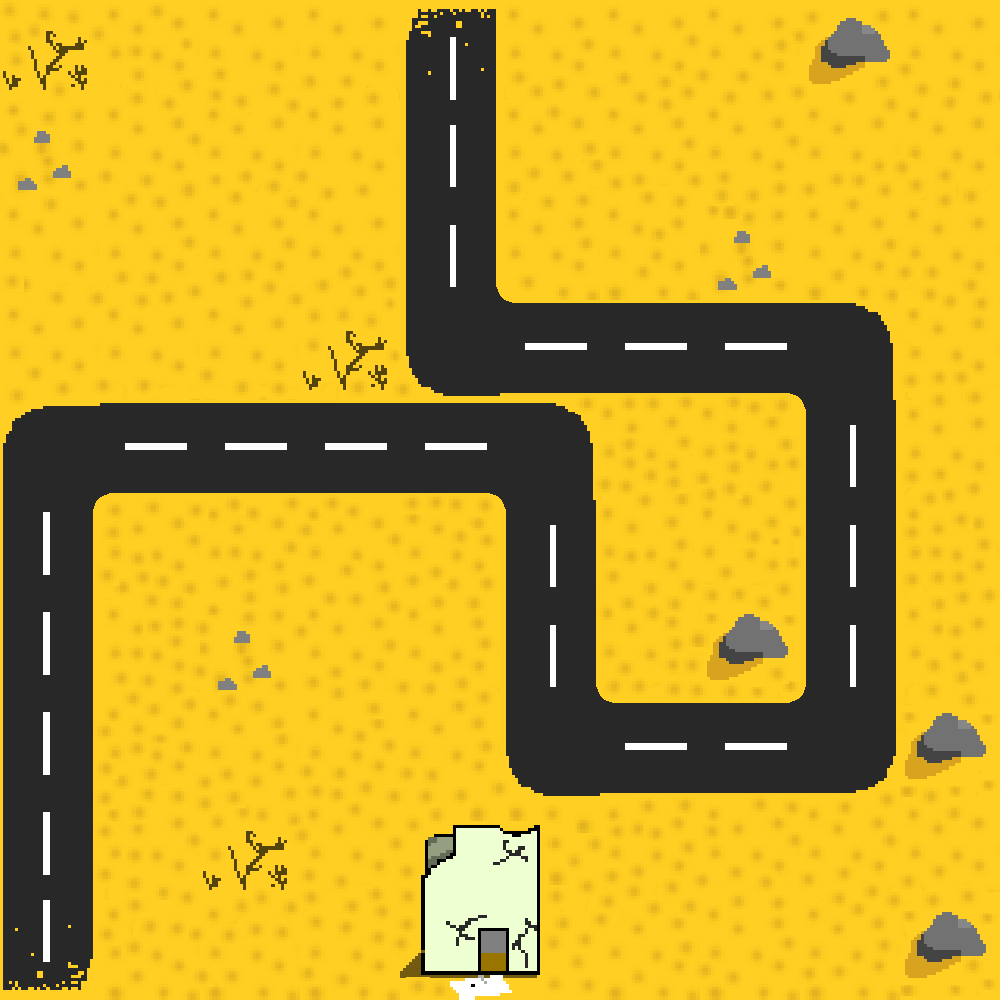
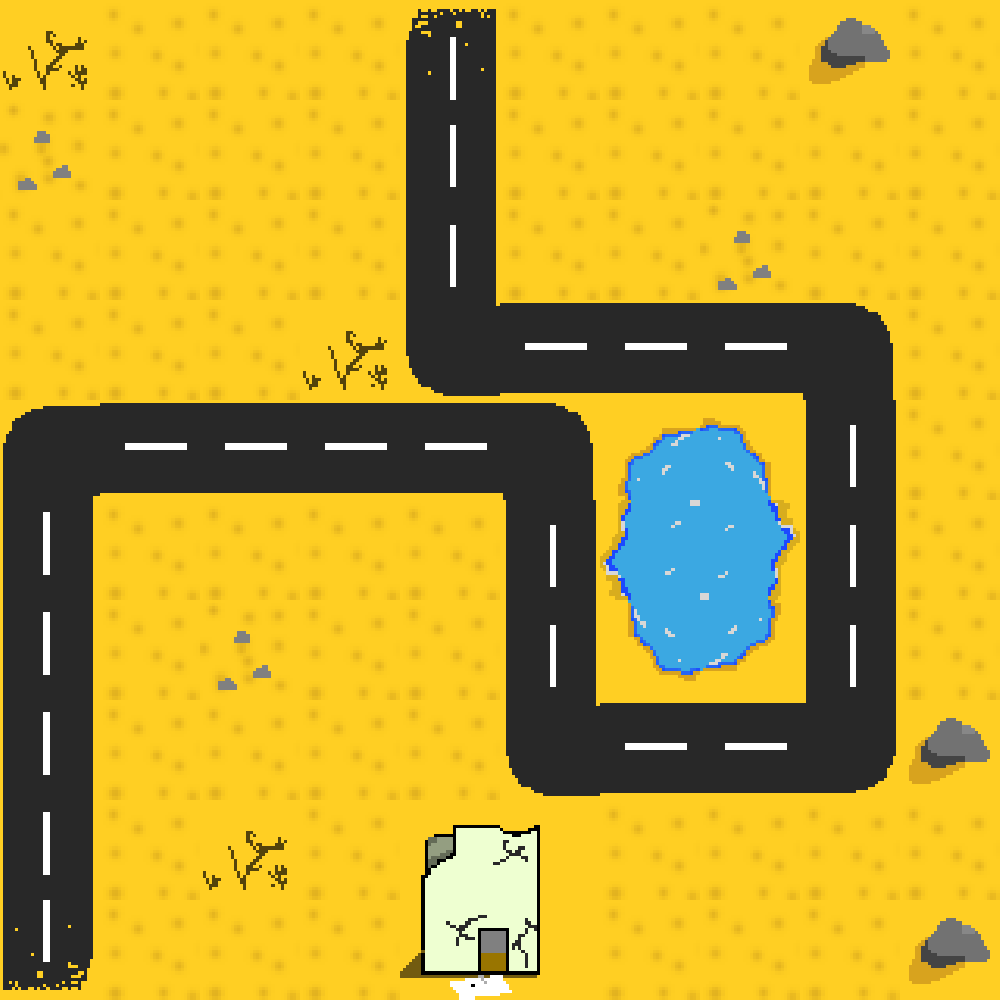
Add files via upload

diff --git a/scripts/game.js b/scripts/game.js
@@ -4,7 +4,7 @@ mapEditMode = 0;
 devMode = 0;
 mapImgs = [];
 mapImgs[0] = new Image();
-mapImgs[0].src = "map1fixed.png";
+mapImgs[0].src = "map1fixed-v2.png";
 circleImg = new Image();
 circleImg.src = "tqkrug.png";
 robotPic = new Image();
@@ -137,7 +137,7 @@ function update() {
   for (i = 0; i < particleSystems.length; i++) {
     particleSystems[i].updateParticles();
   }
- 
+
   if (updates % 50 == 0) {
     money += 15;
   }
@@ -191,11 +191,15 @@ function update() {
 }
 function draw() {
   context.drawImage(mapImgs[currentLevel], 0, 0, 600, 600);
+  for (i = 0; i < particleSystems.length; i++) {
+    particleSystems[i].drawParticles();
+  }
   if (enemies.length > 0) {
     foriin(enemies, () => {
       enemies[i].drawSelf();
     });
   }
+
   foriin(towers, () => {
     towers[i].drawSelf();
   });
@@ -212,7 +216,6 @@ function draw() {
         context.strokeRect(j * 60, i * 60, 60, 60);
       }
     });
-    x;
   }
   foriin(bullets, () => {
     for (j = 0; j < bullets[i].length; j++) {
@@ -251,10 +254,6 @@ function draw() {
     context.fillStyle = "red";
     context.font = "50px Ariel";
     context.fillText("Game over!", 170, 250);
-  }
-
-  for (i = 0; i < particleSystems.length; i++) {
-    particleSystems[i].drawParticles();
   }
 
   // tuk naprogramirai kakvo da se risuva

diff --git a/scripts/grimd.js b/scripts/grimd.js
@@ -23,12 +23,6 @@ grid[5][7] = 0;
 grid[5][6] = 0;
 grid[5][5] = 0;
 grid[5][4] = 0;
-grid[6][4] = 0;
-grid[7][4] = 0;
-grid[7][5] = 0;
-grid[6][5] = 0;
-grid[6][6] = 0;
-grid[7][6] = 0;
 grid[4][4] = 0;
 grid[3][4] = 0;
 grid[2][4] = 0;
